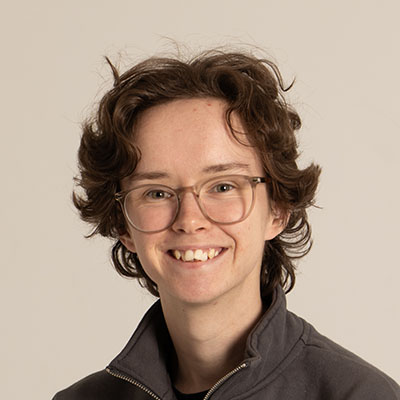
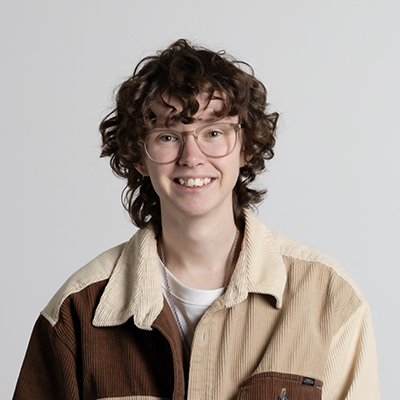
Create Graduate “maxis-angel/index”

diff --git a/src/graduates/maxis-angel/index.md b/src/graduates/maxis-angel/index.md
@@ -1,0 +1,36 @@
+---
+title: Maxis Angel
+discipline: communication
+published: true
+blockOrder: profile
+projectName: DEBRIEF Exhibition
+projectDescription: "I was excited to work on an event-based project as I love
+  planning and creating events in my personal life. Bringing this interest into
+  my professional life was a great opportunity. The DEBRIEF exhibition is an
+  annual, multi-day event that showcases and celebrates the work of graduating
+  students from the School of Design. My role was to develop DEBRIEF’s online
+  presence and create a marketing strategy that promotes the exhibition, raises
+  awareness of the event and sparks excitement among potential visitors. This
+  involved developing and designing content across multiple platforms, including
+  the website, social media, email marketing, advertising banners and more. "
+cover: maxisangel_7.jpg
+hero: maxisangel_3.jpg
+videoFirst: false
+headshot: maxisangel_headshot.jpg
+quote: '"Never let anything dim your creative spark, sometimes that whacky idea
+  is a prized jewel."'
+links:
+  - type: linkedin
+    url: https://www.linkedin.com/in/maxis-angel-2961103bb/
+  - type: email
+    url: maxisdesign.contact@gmail.com
+gallery:
+  - image: maxisangel_5.jpg
+  - image: maxisangel_5.jpg
+  - image: maxisangel_4.jpg
+  - image: maxisangel_8.jpg
+  - image: maxisangel_9.jpg
+  - image: maxisangel_6.jpg
+  - image: maxisangel_10.jpg
+---
+I find joy in gaining new experiences, connecting with others, exploring and being creative. Designing clean and vibrant brands, creating playful graphics, developing memorable user experiences and bringing content, visuals and layouts together to create engaging user interfaces are my passions within design. Across both my personal and professional life, I always strive to learn more, grow further and do great things.
